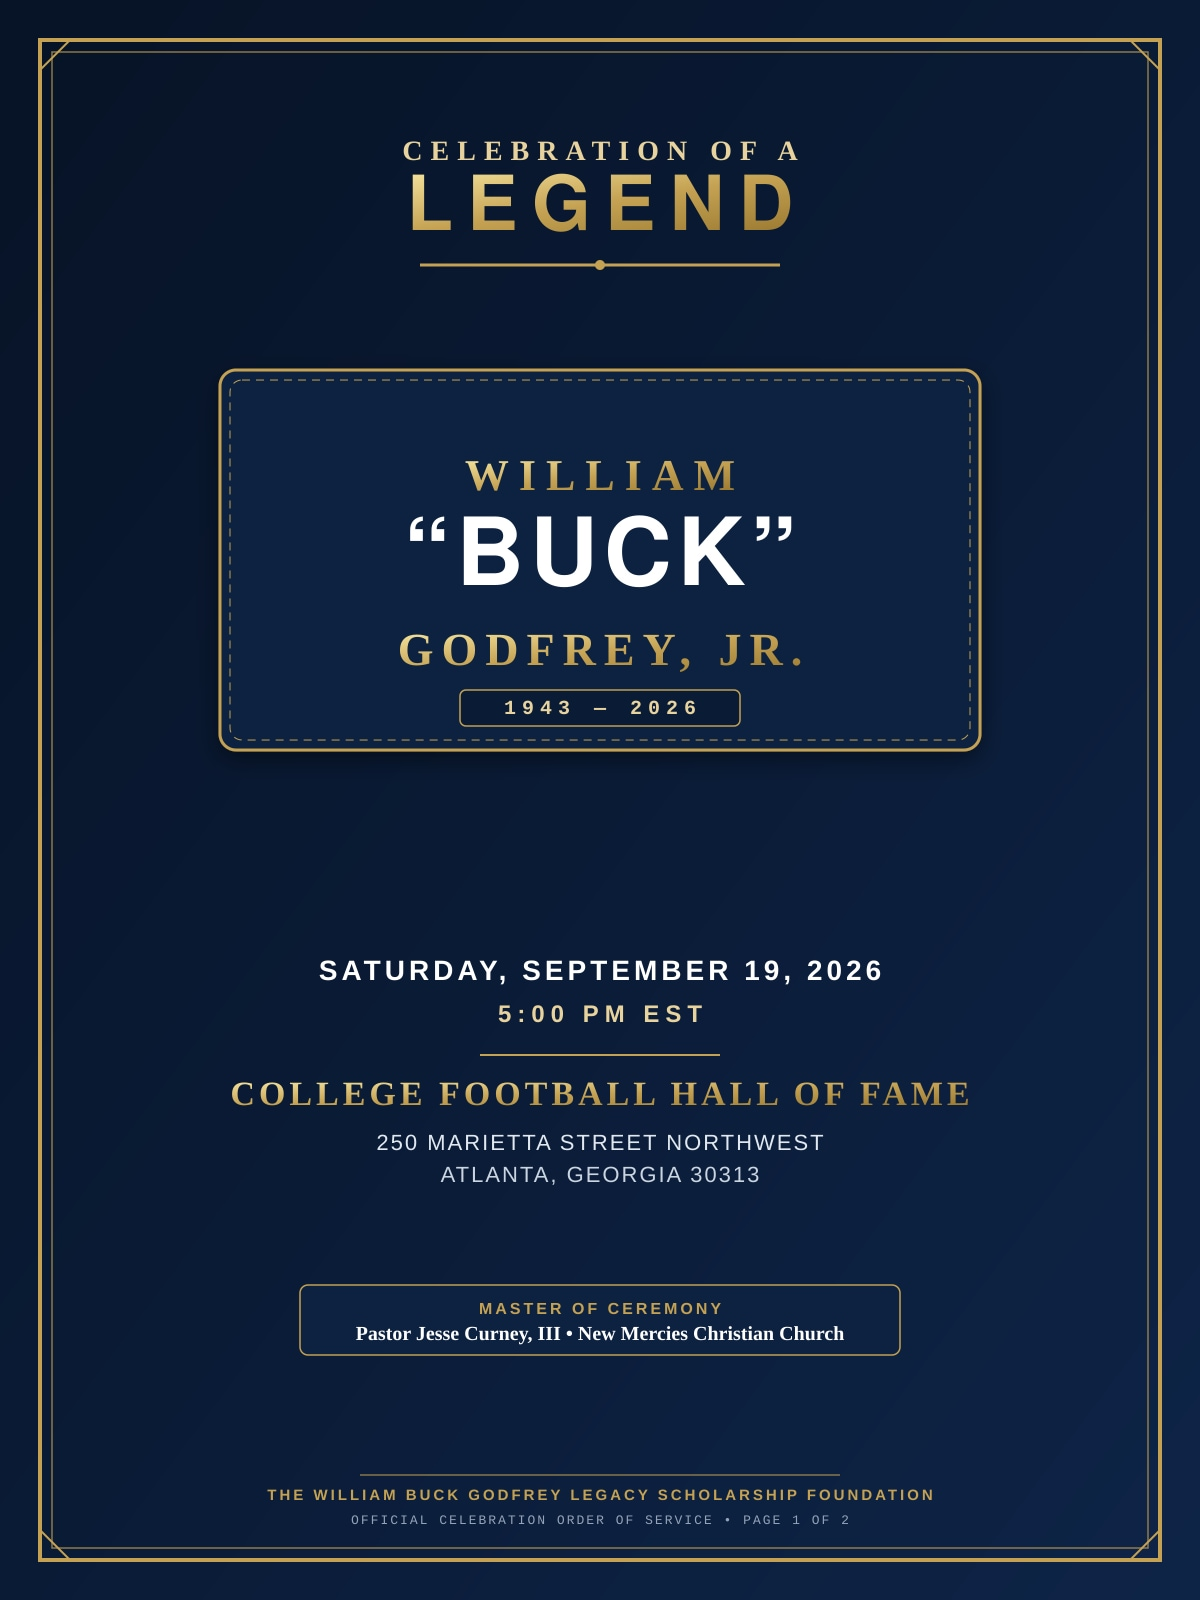
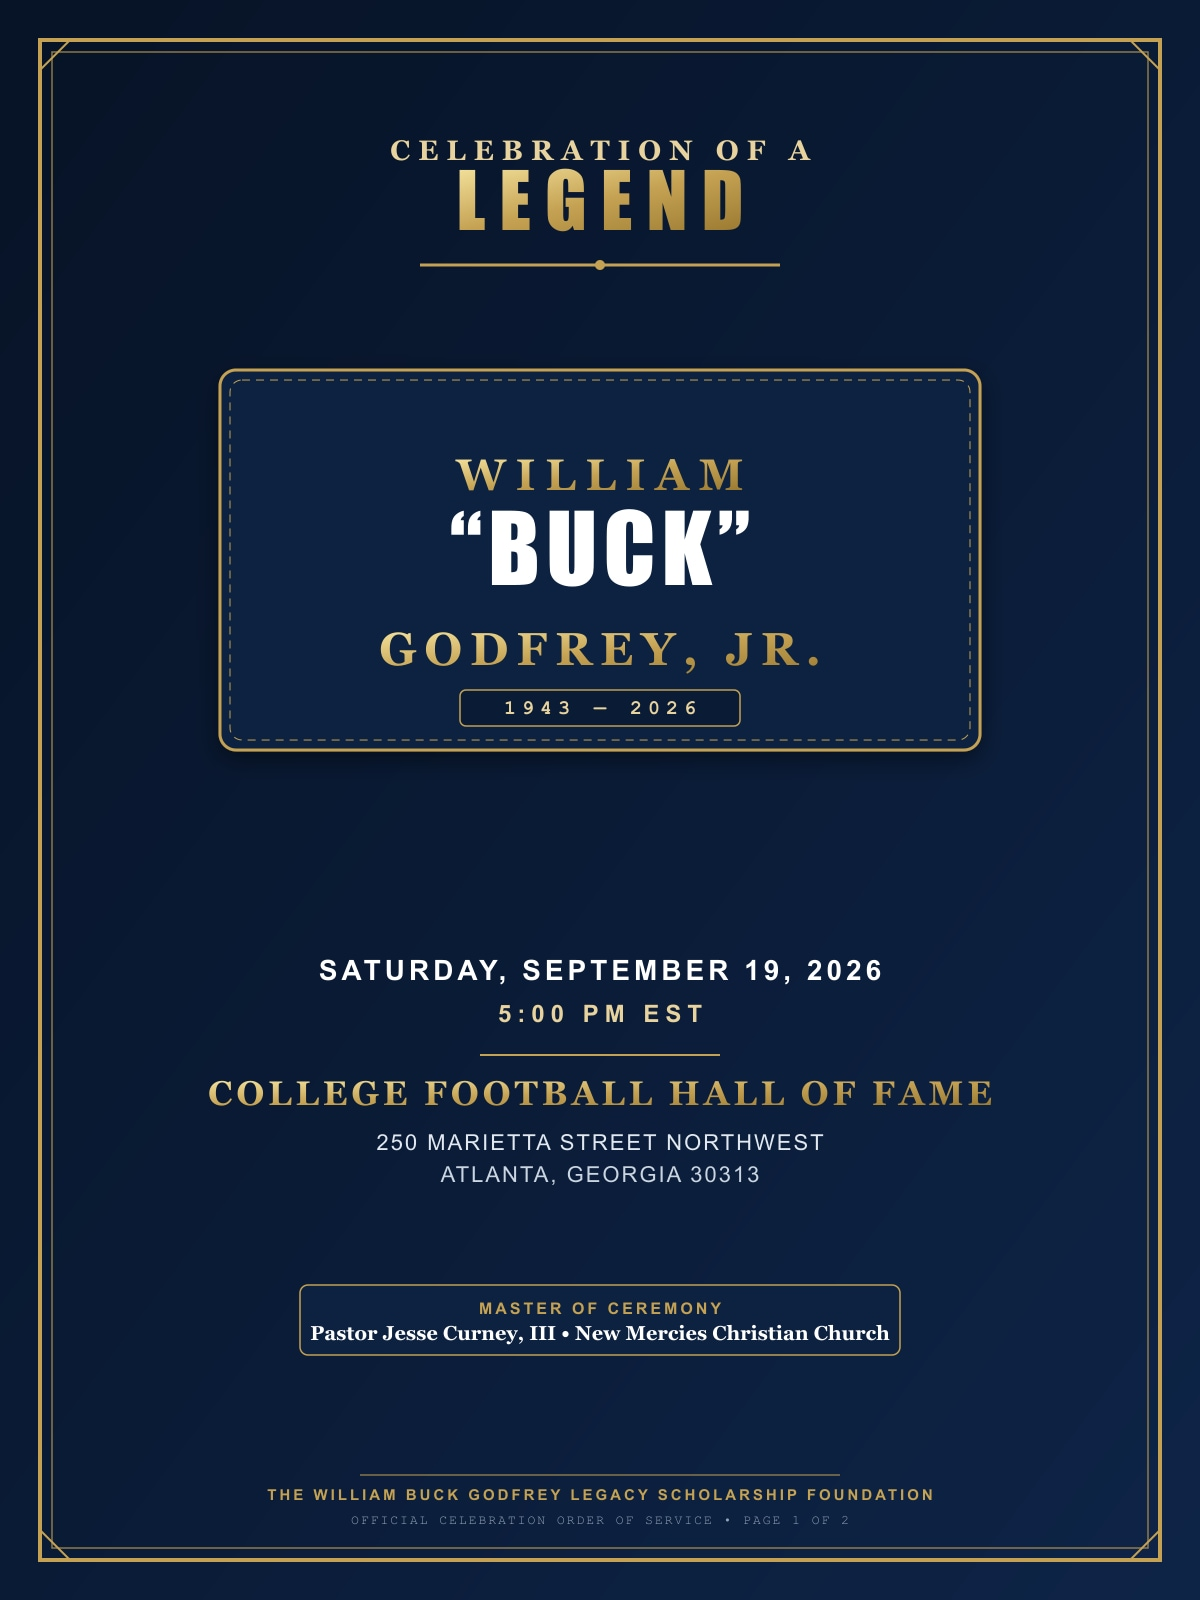
Fix obituary quote and program download

diff --git a/src/utils/downloadDocuments.ts b/src/utils/downloadDocuments.ts
@@ -20,9 +20,11 @@ export const MEMORIAL_DOCUMENTS: MemorialDocument[] = [
     id: 'program',
     title: 'Celebration Order of Service',
     subtitle: 'Official 4-Quarter Memorial Program & Tributes',
-    filename: 'William_Buck_Godfrey_Celebration_Order_of_Service.pdf',
-    downloadUrl: '/documents/William_Buck_Godfrey_Celebration_Order_of_Service.pdf',
-    size: '10 KB',
+    // The public program download should match the Celebration of a Legend
+    // flyer shown in the document viewer, rather than the older generated PDF.
+    filename: 'William_Buck_Godfrey_Celebration_of_a_Legend_Flyer.jpg',
+    downloadUrl: '/1.jpg',
+    size: 'Original flyer',
     pages: '2 Pages',
     pageCount: 2,
     description:
@@ -81,7 +83,7 @@ export async function downloadFileSafe(url: string, filename: string): Promise<b
     const response = await fetch(url, {
       method: 'GET',
       headers: {
-        Accept: 'application/pdf, */*',
+        Accept: 'application/pdf, image/jpeg, */*',
       },
     });
 
